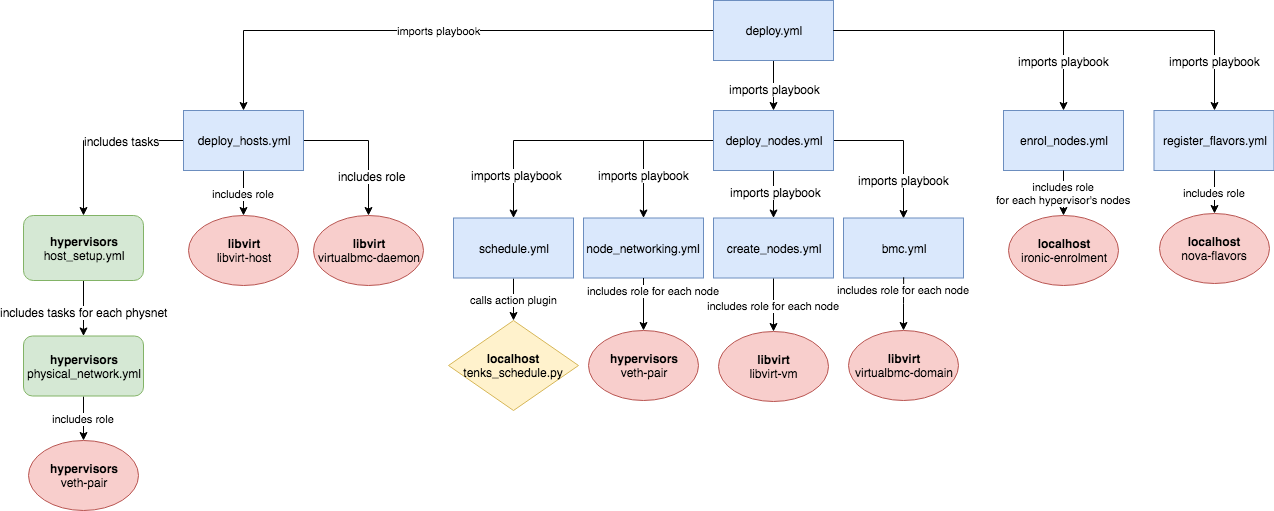
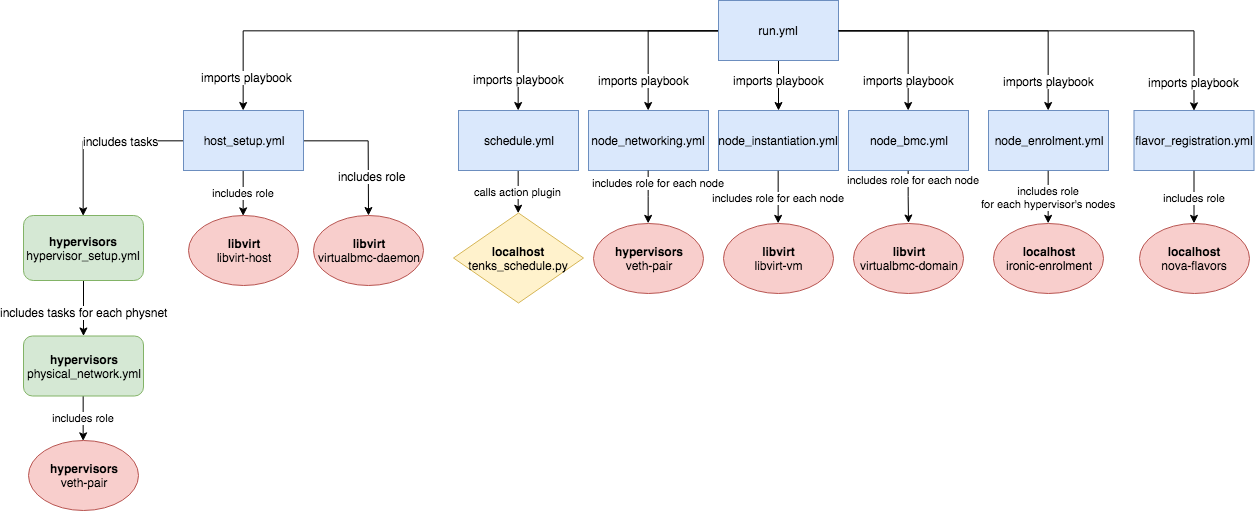
Restructure playbooks for multiple commands
Much of the logic in the existing 'deploy' playbooks could be reused for
a teardown command, so it didn't make sense to duplicate this. Instead,
rename/restructure playbooks such that they refer to an area of
responsibility, rather than an action.

Also, make some changes to allow a new 'teardown' action.

diff --git a/README.md b/README.md
@@ -41,15 +41,25 @@ required for different hosts, you will need to individually specify them: for a
 host with hostname *myhost*, set `physnet_mappings` within the file
 `ansible/host_vars/myhost`.
 
-### Deployment
+### Commands
 
-Currently, Tenks does not have a CLI or wrapper. A virtual cluster can be
-deployed by calling
-`ansible-playbook --inventory ansible/inventory ansible/deploy.yml --extra-vars=@override.yml`,
-where `override.yml` is the path to your override file. The `deploy.yml`
-playbook includes various constituent playbooks which perform different parts
-of the deployment. An individual section of Tenks can be run separately by
-substituting `ansible/deploy.yml` in the command above with the path to the
+Tenks has a variable `cmd` which specifies the command to be run. This variable
+can be set in your override file (see above). The possible values it can take
+are:
+
+* `deploy`: create a virtual cluster to the specification given. This is the
+  default command.
+* `teardown`: tear down any existing virtual cluster with the specification
+  given.
+
+### Running Tenks
+
+Currently, Tenks does not have a CLI or wrapper. It can be run by calling
+`ansible-playbook --inventory ansible/inventory ansible/run.yml --extra-vars=@override.yml`,
+where `override.yml` is the path to your override file. The `run.yml` playbook
+includes various constituent playbooks which perform different parts of the
+deployment. An individual section of Tenks can be run separately by
+substituting `ansible/run.yml` in the command above with the path to the
 playbook you want to run. The current playbooks can be seen in the Ansible
 structure diagram in the *Development* section.
 
